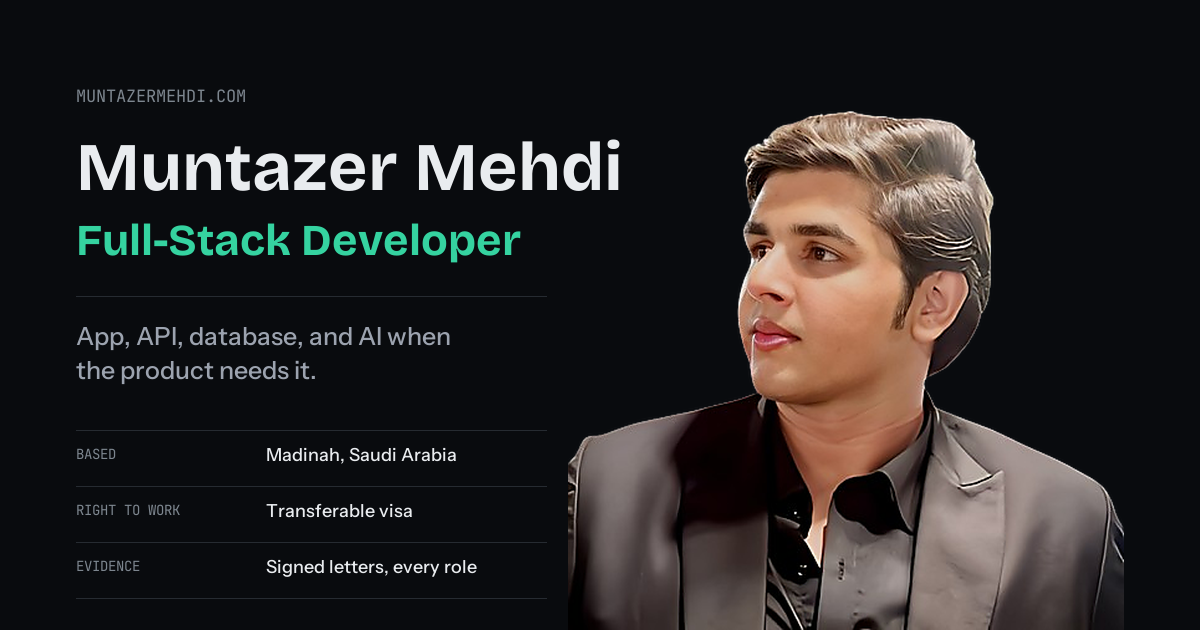
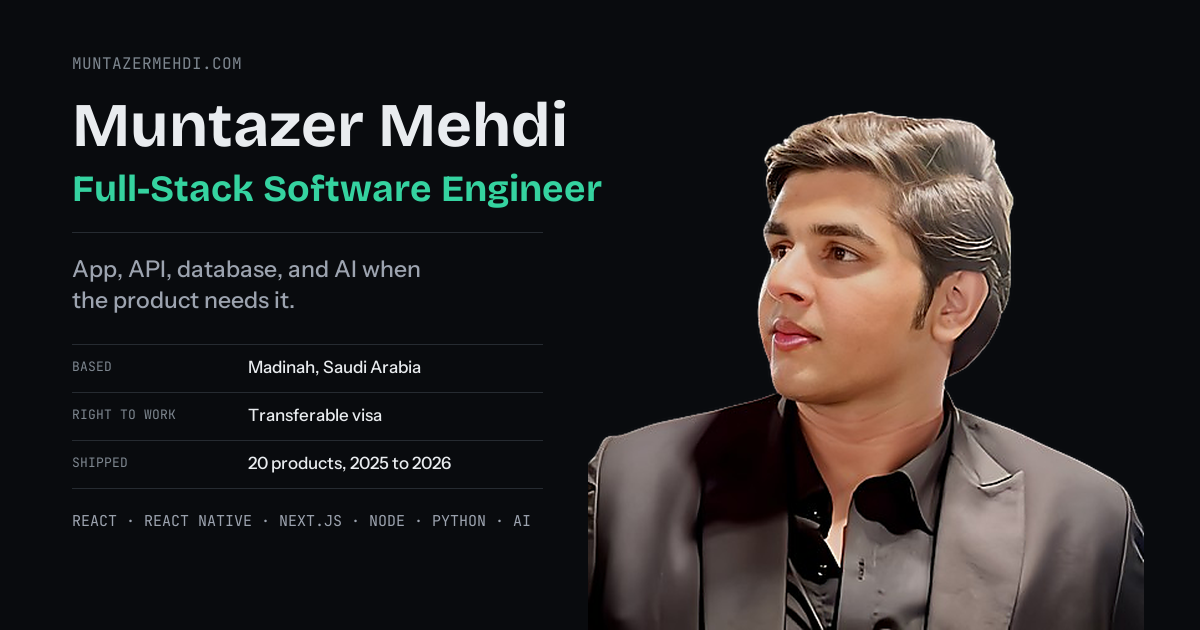
Rework the share card and drop the em dashes
The card showed who he is but not what he builds, and the headline
LinkedIn prints came from an og:title containing an em dash.

Adds the stack and the shipped count, and retitles to Full-Stack
Software Engineer so the card, the CV and the LinkedIn profile agree on
one title. Every em dash in the document head is gone, including the
page title and meta description.

Layout is now measured rather than eyeballed: the left column is capped
at 470px with an assertion that it cannot reach the portrait, the stack
line steps its own size down until it fits that column, and the lowest
ink sits at y=525 of 630, well clear of where platforms crop.

Portrait bleeds to the bottom edge, so the crop reads as intended
instead of as a hard cut floating above the frame.

diff --git a/public/index.html b/public/index.html
@@ -4,7 +4,7 @@
     <meta charset="utf-8" />
     <meta name="viewport" content="width=device-width, initial-scale=1" />
     <meta name="theme-color" content="#090B0E" />
-    <meta name="description" content="Full-stack developer. Mobile, web, backend and applied AI — 20 products shipped across 2025 and 2026. Based in Saudi Arabia and open to new roles." />
+    <meta name="description" content="Full-stack software engineer. Mobile, web, backend and applied AI. 20 products shipped across 2025 and 2026. Based in Saudi Arabia and open to new roles." />
 
     <link rel="icon" href="%PUBLIC_URL%/favicon.ico" sizes="any" />
     <link rel="icon" type="image/png" sizes="32x32" href="%PUBLIC_URL%/favicon-32.png" />
@@ -18,16 +18,16 @@
     <meta property="og:type" content="website" />
     <meta property="og:site_name" content="Muntazer Mehdi" />
     <meta property="og:url" content="https://muntazermehdi.com/" />
-    <meta property="og:title" content="Muntazer Mehdi — Full-Stack Developer" />
+    <meta property="og:title" content="Muntazer Mehdi, Full-Stack Software Engineer" />
     <meta property="og:description" content="App, API, database, and AI when the product needs it. 20 products shipped across 2025 and 2026. In Saudi Arabia on a transferable visa, open to new roles." />
     <meta property="og:image" content="https://muntazermehdi.com/og-image.png" />
     <meta property="og:image:width" content="1200" />
     <meta property="og:image:height" content="630" />
-    <meta property="og:image:alt" content="Muntazer Mehdi, Full-Stack Developer. Based in Madinah, Saudi Arabia, on a transferable visa." />
+    <meta property="og:image:alt" content="Muntazer Mehdi, Full-Stack Software Engineer. Based in Madinah, Saudi Arabia, on a transferable visa." />
     <meta property="og:locale" content="en_US" />
 
     <meta name="twitter:card" content="summary_large_image" />
-    <meta name="twitter:title" content="Muntazer Mehdi — Full-Stack Developer" />
+    <meta name="twitter:title" content="Muntazer Mehdi, Full-Stack Software Engineer" />
     <meta name="twitter:description" content="App, API, database, and AI when the product needs it. 20 products shipped across 2025 and 2026. In Saudi Arabia on a transferable visa, open to new roles." />
     <meta name="twitter:image" content="https://muntazermehdi.com/og-image.png" />
     <!--
@@ -44,7 +44,7 @@
       work correctly both with client-side routing and a non-root public URL.
       Learn how to configure a non-root public URL by running `npm run build`.
     -->
-    <title>Muntazer Mehdi — Full-Stack Developer</title>
+    <title>Muntazer Mehdi, Full-Stack Software Engineer</title>
       <script>
       (function () {
         /* A saved choice wins; otherwise follow the visitor's own system.
